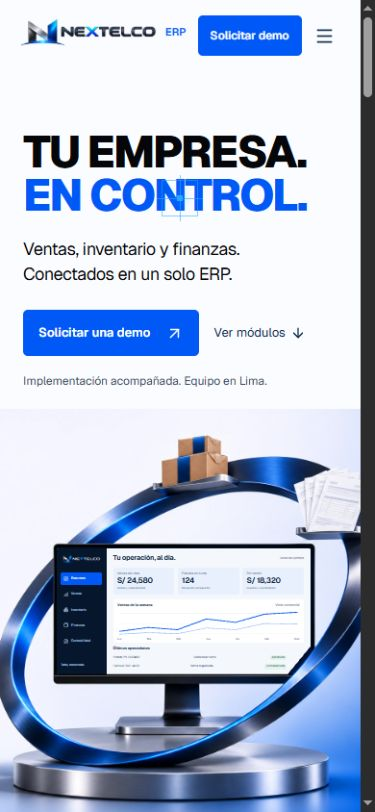
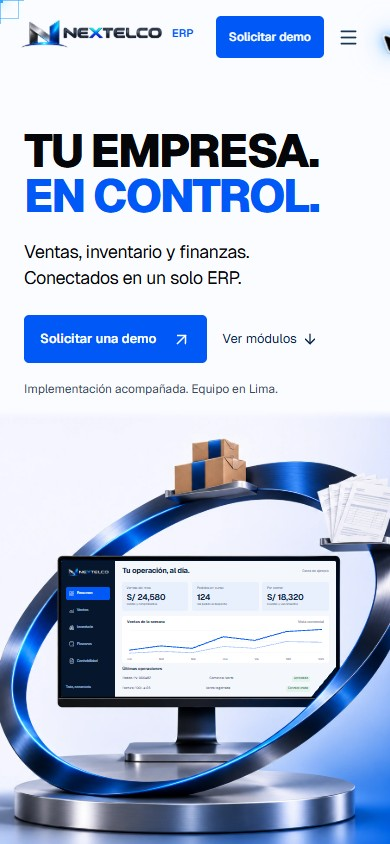
Fix ERP mobile hero spacing across viewport heights

Changed region(s): [[0.0, 0.0, 1.0, 1.0], [0.528, 0.0, 0.9093, 0.0924], [0.0, 0.0, 0.0587, 0.0308]]

diff --git a/src/components/erp/Hero.css b/src/components/erp/Hero.css
@@ -350,36 +350,41 @@
 }
 @media (max-width: 800px) {
   .erp-root .erp-hero {
-    height: 1050px;
-    min-height: 100svh;
+    display: flex;
+    flex-direction: column;
+    height: auto;
+    min-height: 0;
     max-height: none;
+    padding-top: 140px;
   }
   .erp-hero-copy {
-    left: 24px;
-    top: 140px;
+    position: relative;
+    order: 0;
+    left: auto;
+    top: auto;
     width: calc(100% - 48px);
+    margin-inline: 24px;
   }
   .erp-root .erp-hero-copy h1 {
     font-size: clamp(58px, 10vw, 80px);
   }
   .erp-orbit-scene {
+    position: relative;
+    order: 1;
+    flex-shrink: 0;
     width: 145%;
-    right: -10%;
+    right: auto;
+    bottom: auto;
+    margin-top: 12px;
+    margin-left: -35%;
   }
   .erp-hero-bottom {
-    left: 24px;
-    right: 24px;
-  }
-  .erp-hero-bottom > a {
     display: none;
   }
 }
 @media (max-width: 540px) {
   .erp-root .erp-hero {
-    height: 850px;
-  }
-  .erp-hero-copy {
-    top: 135px;
+    padding-top: 128px;
   }
   .erp-root .erp-hero-copy h1 {
     font-size: clamp(43px, 11.9vw, 63px);
@@ -408,10 +413,7 @@
   }
   .erp-orbit-scene {
     width: 170%;
-    right: -10%;
-  }
-  .erp-hero-bottom {
-    display: none;
+    margin-left: -60%;
   }
 }
 @media (prefers-reduced-motion: reduce) {

diff --git a/docs/erp-redesign/README.md b/docs/erp-redesign/README.md
@@ -19,6 +19,8 @@ Herramienta integrada image_gen. Los PNG originales y los WebP optimizados está
 
 TypeScript, ESLint de los archivos modificados, Prettier y compilación Vite de cliente/SSR. Detector Impeccable sin hallazgos. Revisión en Chrome a 2560, 1440 y 390 px; pantalla del monitor sin desbordamiento; catálogo móvil sin desbordamiento horizontal; comprobados los 16 módulos únicos, cambios entre áreas, navegación móvil y flechas de teclado del selector de operaciones. Las capturas de esta carpeta documentan la revisión local. La comprobación de móvil se realiza mediante viewport de escritorio, sin dispositivo físico.
 
+Corrección posterior de móvil: el hero deja de usar una altura mínima de pantalla y una imagen anclada al fondo. Texto e imagen siguen el flujo del documento, con 12 px entre sus contenedores. Verificado a 390 × 844, 500 × 844 y 500 × 1160: los dos tamaños de 500 px conservan la misma altura de contenido (985 px), sin añadir espacio al crecer la ventana. `hero-mobile-tall.jpg` documenta la vista alta.
+
 Publicación por commit y push a main, con despliegue de producción automático en Vercel, proyecto angel-web, ruta https://www.nextelco.cloud/erp.
 
 ## Prompt final — escena estándar
@@ -33,4 +35,3 @@ Exact constraints: NO text, NO words, NO letters, NO logos, NO charts, NO number
 
 Create a 2:1 landscape version, exactly 2048x1024, of the attached NEXTELCO ERP studio scene. Keep the SAME sculptural cobalt-blue and brushed-silver orbital ring, same physical invoices and two blue-banded kraft packages on its small ledges, same premium front-facing black desktop monitor with EMPTY midnight-navy screen, same satin-silver low circular pedestal, same white and cobalt photography. Preserve these objects and material identities. Do NOT add objects.
 Recompose for a full-width desktop website hero with the LEFT 36% completely empty white for large live text. The orbit and monitor should be VERY LARGE across the RIGHT 64%, rather than making everything tiny at the far right. A big front-facing rectangular monitor screen should cover approximately x=900..1820, y=365..775, with straight horizontal top/bottom and vertical sides. The orbit rises behind it x=850..1970, y=85..900, and the pedestal fits entirely x=850..1900 around y=950. Maintain the blue metal orbit's elegant tilted sculptural shape and premium metallic specular light. Low white studio floor; blue at far lower right, not a dark page. No figures, no cloche, no hands, no laptop. Absolutely NO text, NO logo, NO letters, NO interface, NO numbers, NO watermark. Monitor screen completely blank dark navy. This is a premium advertising photograph, not a page mockup. Main requirement is EXACT 2:1 width-to-height framing and a larger screen on the right, keeping the left 36% clean.
-
